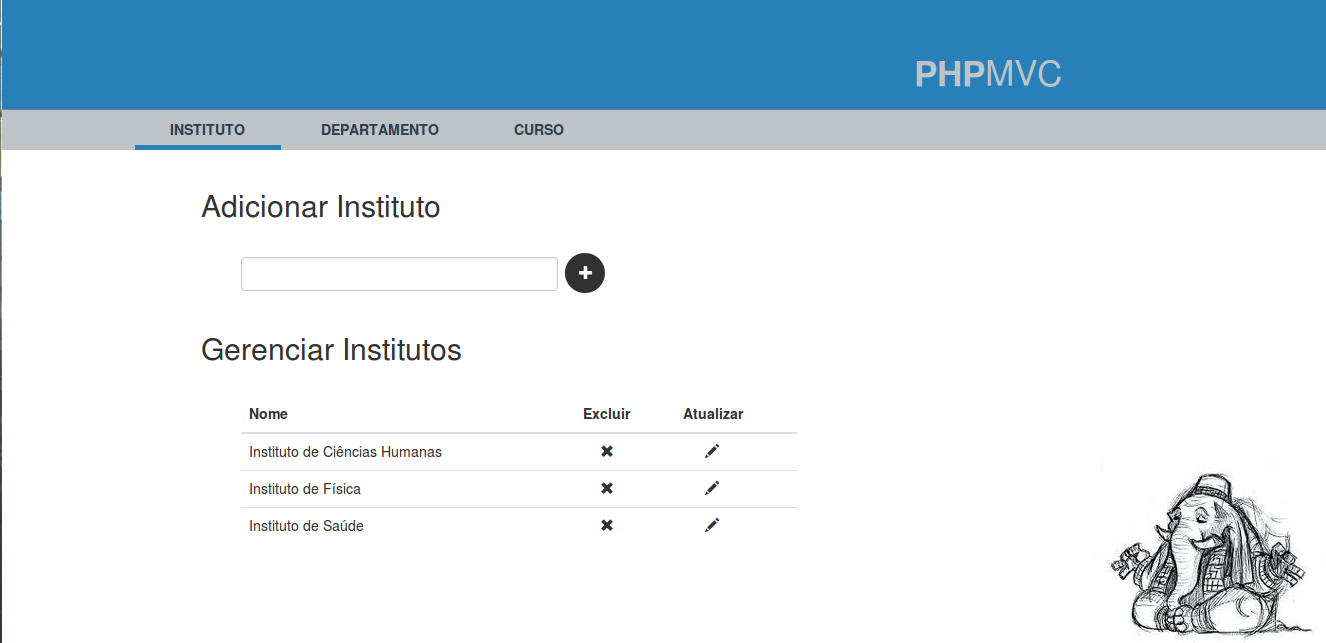
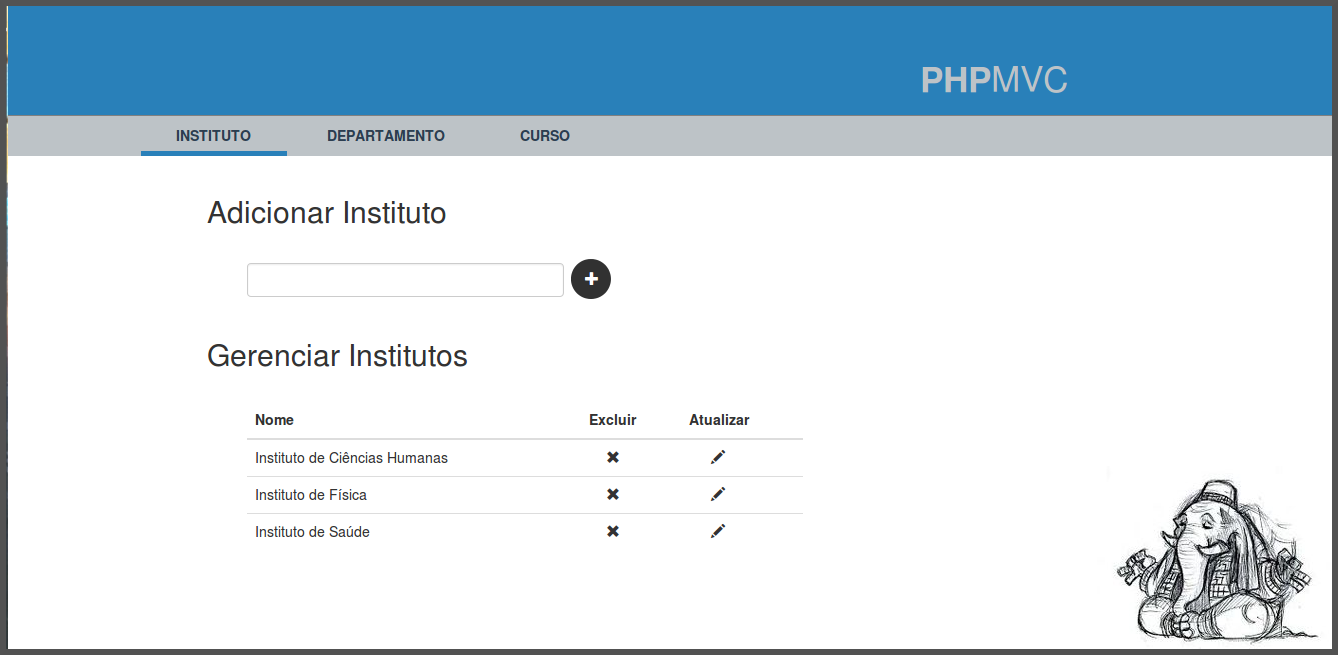
adicionadas bordas nas imagens do readme

diff --git a/README.md b/README.md
@@ -1,10 +1,14 @@
 # php-mvc
 Web app que implementa um crud básico utilizando php com arquitetura mvc e sem frameworks.
 
+Index:
 ![ScreenShot](img/1-intro.png)
 
+Institutos:
 ![ScreenShot](img/2-inst.png)
 
+Departamentos:
 ![ScreenShot](img/3-dept.png)
 
+Cursos:
 ![ScreenShot](img/4-curs.png)
